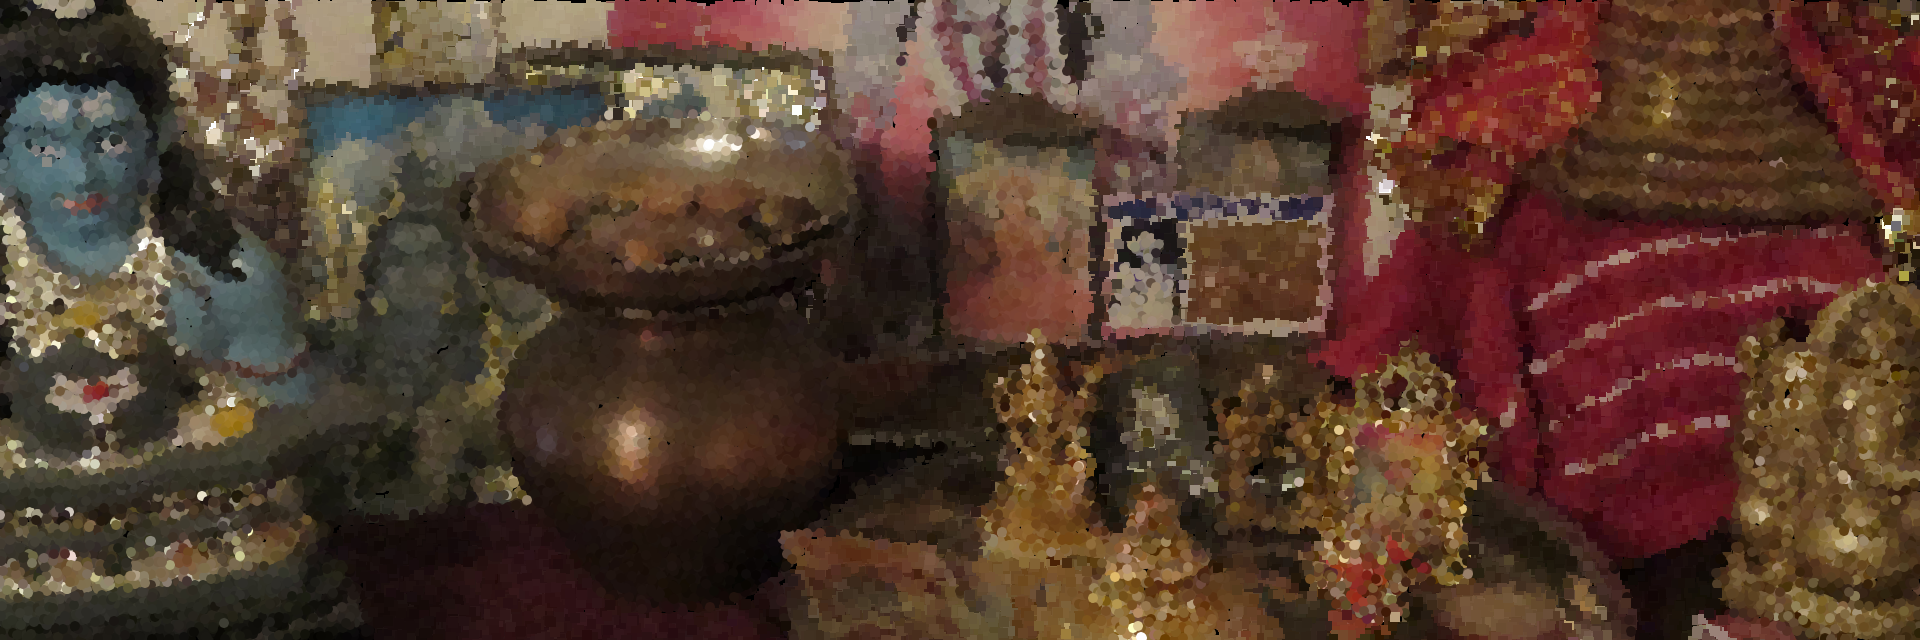
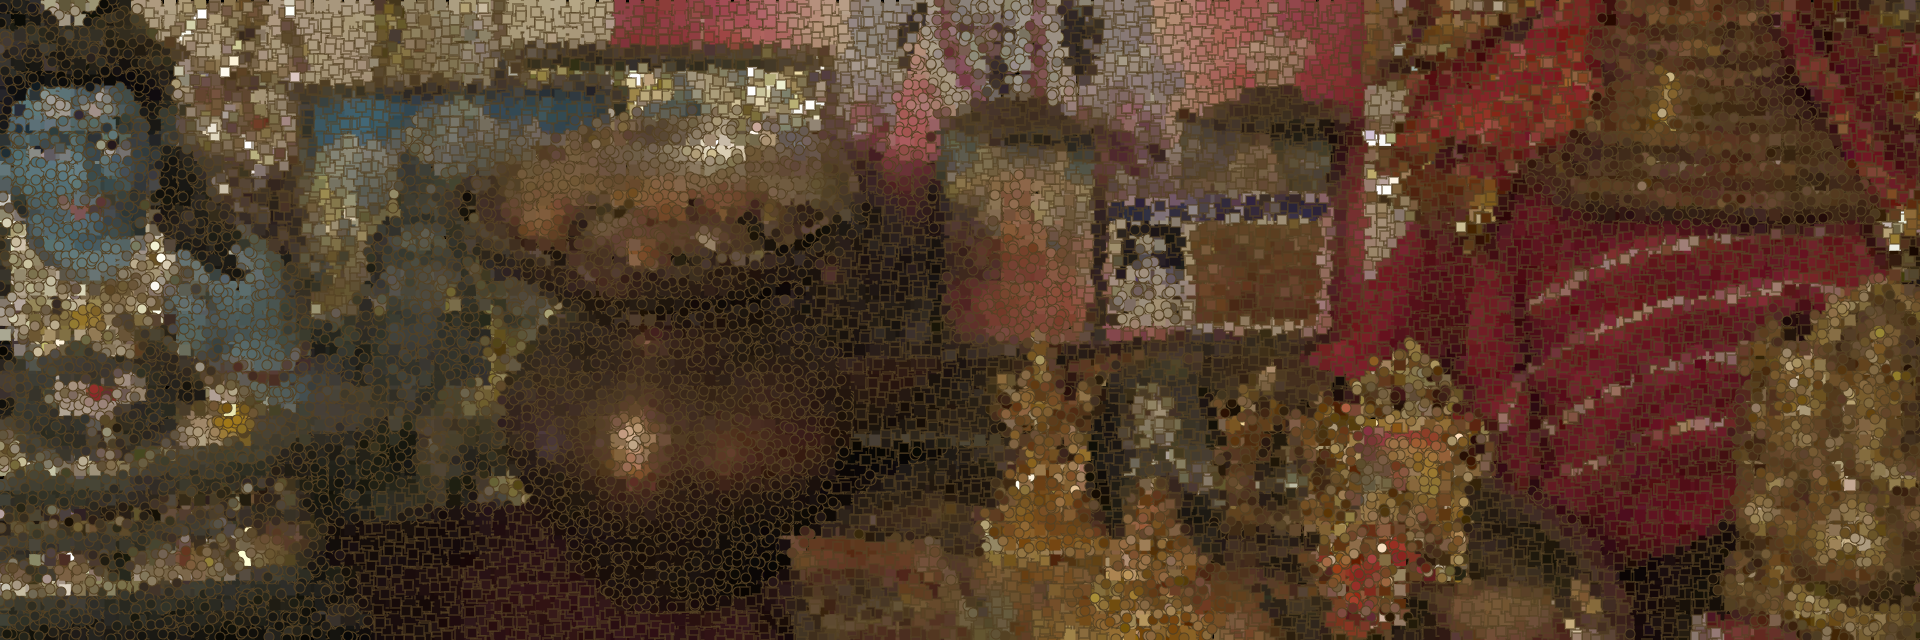
Adding grids
Using grids

Changed region(s): [[0.0, 0.0, 1.0, 1.0]]

diff --git a/sketch.js b/sketch.js
@@ -3,9 +3,9 @@ let maskImg=null;
 let renderCounter=0;
 
 // change these three lines as appropiate
-let sourceFile = "input_2.jpg";
-let maskFile   = "mask_2.png";
-let outputFile = "output_2.png";
+let sourceFile = "input_1.jpg";
+let maskFile   = "mask_1.png";
+let outputFile = "output_1.png";
 
 function preload() {
   sourceImg = loadImage(sourceFile);
@@ -21,9 +21,26 @@ function setup () {
   background(0);
   sourceImg.loadPixels();
   maskImg.loadPixels();
+
 }
+const tileHeight = 10;
+const tileWidth = 10;
+
+const x_step = 15; //space between this varable and tile width (5)
+const y_step = 15; //space between this variable and tile height (5)
+
 
 function draw () {
+
+    for(var x = 0; x < sourceImg.width; x = x + x_step){
+      for(var y = 0; y < sourceImg.height; y = y + y_step){
+        let pix = sourceImg.get(x, y);
+        let mask = maskImg.get(x, y);
+        fill(pix);
+        stroke(pix);
+        rect(x,y,tileWidth,tileHeight);
+      }
+    }
   for(let i=0;i<10000;i++) {
     let x = floor(random(sourceImg.width));
     let y = floor(random(sourceImg.height));
@@ -41,6 +58,7 @@ function draw () {
       rect(x, y, pointSize, pointSize);
     }
   }
+
   renderCounter = renderCounter + 1;
   if(renderCounter > 10) {
     console.log("Done!")

diff --git a/README.md b/README.md
@@ -6,4 +6,6 @@ Started doing my second image, quite happy with how it's looking currently. I fi
 
 Filling mask2 to get more detail on the small things. I need to play more with the shapes in this problem set and figure out if there's more to this problem set (for example more shapes or playing around with colour schemes).
 
-Image 2 has been completed and I'm quite happy with it. It shows a lot of textures from the two sari's (clothing) which is what I was aiming for. As mentioned before, I need to play around with the limitations that this problem set has to offer. Thumbnail has been set to the mask to show how much detail has been added. 
+Image 2 has been completed and I'm quite happy with it. It shows a lot of textures from the two sari's (clothing) which is what I was aiming for. As mentioned before, I need to play around with the limitations that this problem set has to offer. Thumbnail has been set to the mask to show how much detail has been added.
+
+After playing around with the grid code, I decided to use aspects of it into my second image and was amazed on how good it looks with the original code that I had. It incorporates both ellipses and rectangles in a pixel art way which looks really good to look at it. The code so far uses a nested for loop which tracks both the x and y pixels on the screen, and on the side of that, it uses another for loop which adds ellipses depending on where the white space is on the mask. If I further refined image2, I could potentially use it as one of my final designs. I'm now currently working on the 3rd design, which is something to do with nature, but I'm not quite sure what message to send at this stage.  
